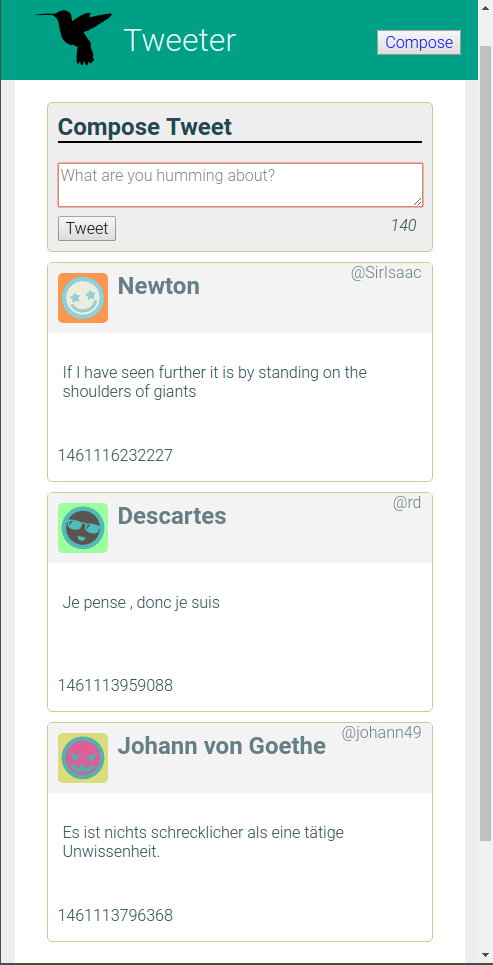
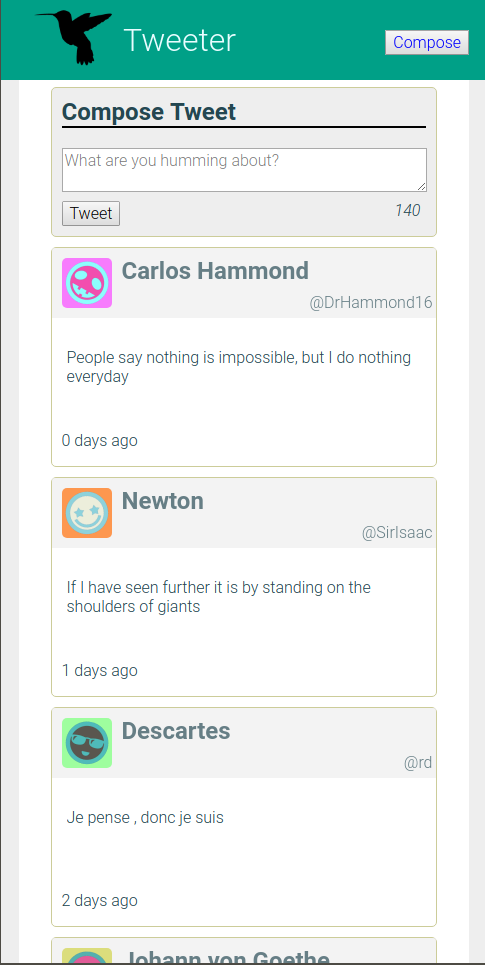
changed date to days

diff --git a/public/scripts/app.js b/public/scripts/app.js
@@ -1,61 +1,10 @@
-/*
- * Client-side JS logic goes here
- * jQuery is already loaded
- * Reminder: Use (and do all your DOM work in) jQuery's document ready function
- */
 $(document).ready(function() {
-  // const data = [
-  //   {
-  //     "user": {
-  //       "name": "Newton",
-  //       "avatars": {
-  //         "small":   "https://vanillicon.com/788e533873e80d2002fa14e1412b4188_50.png",
-  //         "regular": "https://vanillicon.com/788e533873e80d2002fa14e1412b4188.png",
-  //         "large":   "https://vanillicon.com/788e533873e80d2002fa14e1412b4188_200.png"
-  //       },
-  //       "handle": "@SirIsaac"
-  //     },
-  //     "content": {
-  //       "text": "If I have seen further it is by standing on the shoulders of giants"
-  //     },
-  //     "created_at": 1461116232227
-  //   },
-  //   {
-  //     "user": {
-  //       "name": "Descartes",
-  //       "avatars": {
-  //         "small":   "https://vanillicon.com/7b89b0d8280b93e2ba68841436c0bebc_50.png",
-  //         "regular": "https://vanillicon.com/7b89b0d8280b93e2ba68841436c0bebc.png",
-  //         "large":   "https://vanillicon.com/7b89b0d8280b93e2ba68841436c0bebc_200.png"
-  //       },
-  //       "handle": "@rd" },
-  //     "content": {
-  //       "text": "Je pense , donc je suis"
-  //     },
-  //     "created_at": 1461113959088
-  //   },
-  //   {
-  //     "user": {
-  //       "name": "Johann von Goethe",
-  //       "avatars": {
-  //         "small":   "https://vanillicon.com/d55cf8e18b47d4baaf60c006a0de39e1_50.png",
-  //         "regular": "https://vanillicon.com/d55cf8e18b47d4baaf60c006a0de39e1.png",
-  //         "large":   "https://vanillicon.com/d55cf8e18b47d4baaf60c006a0de39e1_200.png"
-  //       },
-  //       "handle": "@johann49"
-  //     },
-  //     "content": {
-  //       "text": "Es ist nichts schrecklicher als eine tätige Unwissenheit."
-  //     },
-  //     "created_at": 1461113796368
-  //   }
-  // ];
 
   function createTweetElement(tweet) {
     let $tweet = $('<article>').addClass('tweet');
     $tweet.append(
       `<header><img src=${tweet.user.avatars.small}><h2>${tweet.user.name}</h2><span>${tweet.user.handle}</span></header>`
-    ).append($("<span>").text(tweet.content.text)).append(`<footer><p>${tweet.created_at}</p></footer>`)
+    ).append($("<span>").text(tweet.content.text)).append(`<footer><p>${Math.round((Date.now() - tweet.created_at)/86400000)} days ago</p></footer>`)
     return $tweet;
   }
 
@@ -64,8 +13,6 @@ $(document).ready(function() {
       $('.tweets').prepend(createTweetElement(tweet));
     });
   }
-
-  // renderTweets(data);
 
   function loadTweets() {
     $.ajax('/tweets', { method: 'GET' })

diff --git a/server/index.js b/server/index.js
@@ -1,7 +1,5 @@
 "use strict";
 
-// Basic express setup:
-
 const PORT          = 8080;
 const express       = require("express");
 const bodyParser    = require("body-parser");
@@ -19,25 +17,6 @@ MongoClient.connect(MONGODB_URI, (err, db) => {
   const tweetsRoutes = require("./routes/tweets")(DataHelpers);
   app.use("/tweets", tweetsRoutes);
 });
-
-// The in-memory database of tweets. It's a basic object with an array in it.
-// const db = require("./lib/in-memory-db");
-
-// The `data-helpers` module provides an interface to the database of tweets.
-// This simple interface layer has a big benefit: we could switch out the
-// actual database it uses and see little to no changes elsewhere in the code
-// (hint hint).
-//
-// Because it exports a function that expects the `db` as a parameter, we can
-// require it and pass the `db` parameter immediately:
-//const DataHelpers = require("./lib/data-helpers.js")(db);
-
-// The `tweets-routes` module works similarly: we pass it the `DataHelpers` object
-// so it can define routes that use it to interact with the data layer.
-//const tweetsRoutes = require("./routes/tweets")(DataHelpers);
-
-// Mount the tweets routes at the "/tweets" path prefix:
-//app.use("/tweets", tweetsRoutes);
 
 app.listen(PORT, () => {
   console.log("Example app listening on port " + PORT);

diff --git a/public/index.html b/public/index.html
@@ -1,35 +1,28 @@
 <!DOCTYPE html>
 <html lang="en">
   <head>
-    <!-- Meta Information -->
     <title>Tweeter - Home Page</title>
 
-    <!-- External CSS -->
     <link rel="stylesheet" href="/vendor/normalize-4.1.1.css" type="text/css" />
     <link href="https://fonts.googleapis.com/css?family=Roboto:300,300i,700,700i" rel="stylesheet">
-    <!-- App CSS -->
     <link rel="stylesheet" href="/styles/layout.css" type="text/css" />
     <link rel="stylesheet" href="/styles/nav.css" type="text/css" />
     <link rel="stylesheet" href="/styles/new-tweet.css" type="text/css" />
     <link rel="stylesheet" href="/styles/tweet.css" type="text/css"/>
-    <!-- External JS -->
     <script type="text/javascript" src="/vendor/jquery-2.2.3.min.js"></script>
 
-    <!-- App JS -->
     <script type="text/javascript" src="/scripts/app.js"></script>
     <script type="text/javascript" src="/scripts/compose-char-counter.js"></script>
   </head>
 
   <body>
 
-    <!-- Top nav bar (fixed) -->
     <nav id="nav-bar">
       <img class="logo" src="/images/bird.png">
       <span class="header">Tweeter</span>
       <button>Compose</button>
     </nav>
 
-    <!-- Page-specific (main) content here -->
     <main class="container">
       <section class="new-tweet">
         <h2>Compose Tweet</h2>

diff --git a/server/lib/data-helpers.js b/server/lib/data-helpers.js
@@ -1,29 +1,17 @@
 "use strict";
 
-// Simulates the kind of delay we see with network or filesystem operations
 const simulateDelay = require("./util/simulate-delay");
 
-// Defines helper functions for saving and getting tweets, using the database `db`
 module.exports = function makeDataHelpers(db) {
   return {
 
-    // Saves a tweet to `db`
     saveTweet: function(newTweet, callback) {
-      // simulateDelay(() => {
-      //   db.tweets.push(newTweet);
-      //   callback(null, true);
-      // });
       db.collection("tweets").insertOne(newTweet, function(err) {
         callback(err);
       });
     },
 
-    // Get all tweets in `db`, sorted by newest first
     getTweets: function(callback) {
-      // simulateDelay(() => {
-      //   const sortNewestFirst = (a, b) => a.created_at - b.created_at;
-      //   callback(null, db.tweets.sort(sortNewestFirst));
-      // });
       const sortNewestFirst = (a, b) => a.created_at - b.created_at;
       db.collection("tweets").find().toArray((err, results) => {
         callback(err, results.sort(sortNewestFirst));

diff --git a/server/lib/util/simulate-delay.js b/server/lib/util/simulate-delay.js
@@ -1,12 +1,5 @@
 "use strict";
 
-// This module exports a utility function for simulating
-// delay (for example, in network or file system operations)
-// using the builtin setTimeout.
-//
-// This is used to make the front-end behaviour a little more
-// realistic even while we use a simplistic "in-memory" db.
-
 function someMilliseconds() {
   return Math.floor(Math.random() * 400) + 100;
 }
@@ -14,4 +7,3 @@ function someMilliseconds() {
 module.exports = function simulateDelay(callback) {
   setTimeout(callback, someMilliseconds());
 }
-

diff --git a/public/styles/layout.css b/public/styles/layout.css
@@ -1,8 +1,3 @@
-/*
- * http://www.paulirish.com/2012/box-sizing-border-box-ftw/
- * https://css-tricks.com/international-box-sizing-awareness-day/
- * Do not modify these two selectors, please
- */
 html {
   box-sizing: border-box;
 }
@@ -28,7 +23,3 @@ body {
   background-color: white;
   padding-bottom: 150px;
 }
-
-/*
- * Additional CSS can be defined below or in other CSS files, as per instructions
- */

diff --git a/server/lib/in-memory-db.js b/server/lib/in-memory-db.js
@@ -1,10 +1,7 @@
 "use strict";
 
-// Requiring a JSON file automatically parses it and returns the data. These
-// are just example tweets to make it less tedious to style the app initially.
 const db = {
   tweets: require("../data-files/initial-tweets")
 }
 
 module.exports = db;
-

diff --git a/public/styles/tweet.css b/public/styles/tweet.css
@@ -38,7 +38,8 @@ article.tweet header > h2 {
 
 article.tweet header > span {
   float: right;
-  margin-right: 10px;
+  padding-top: 45px;
+  padding-right: 3px;
 }
 
 article.tweet > span {
